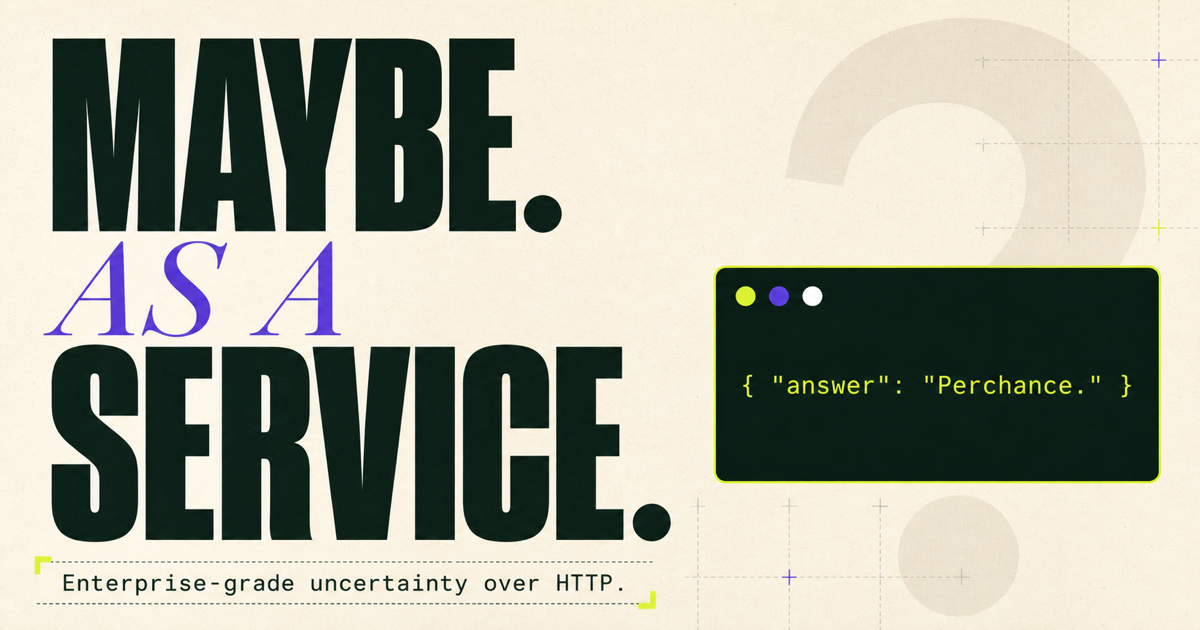
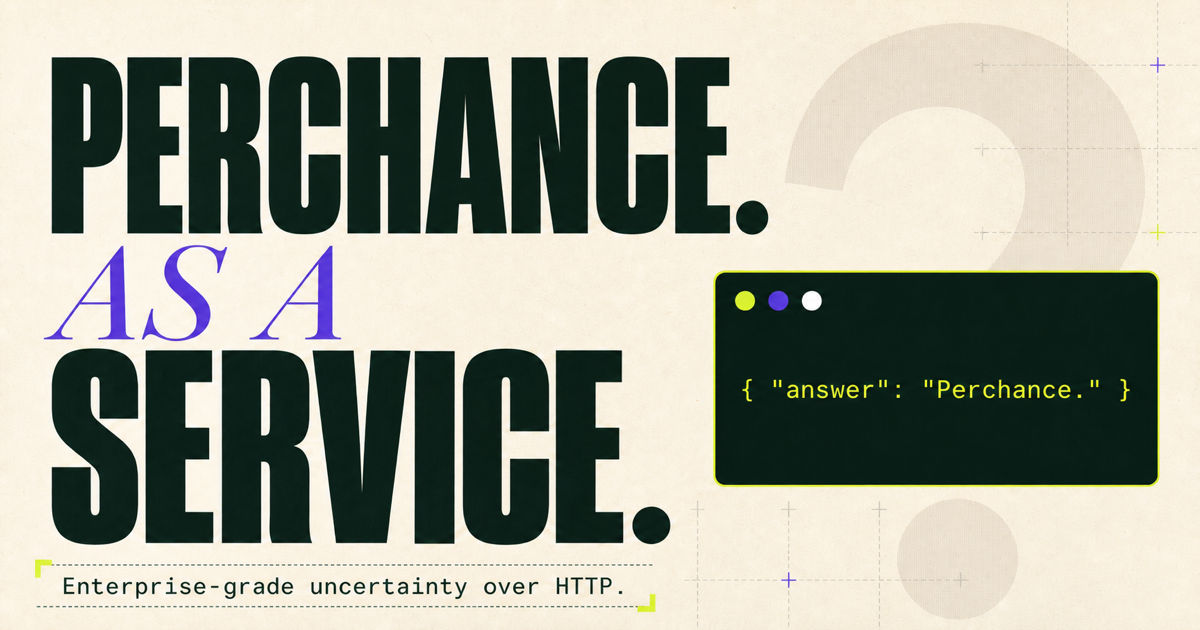
Add GitHub links and refresh site metadata

diff --git a/app/page.tsx b/app/page.tsx
@@ -16,6 +16,13 @@ export default function Home() {
         <div className="nav-links">
           <a href="#api">API</a>
           <a href="#principles">Principles</a>
+          <a
+            href="https://github.com/synopsys0/perchance-as-a-service"
+            target="_blank"
+            rel="noreferrer"
+          >
+            View on GitHub ↗
+          </a>
           <span className="status"><i /> Probably operational</span>
         </div>
       </nav>
@@ -93,7 +100,11 @@ export default function Home() {
 
       <footer>
         <div className="brand footer-brand"><span className="brand-mark">P</span><span>Perchance as a Service</span></div>
-        <p>Not affiliated with Perchance.org.<br />Inspired by No-as-a-Service.</p>
+        <div className="footer-links">
+          <a href="https://github.com/synopsys0/perchance-as-a-service" target="_blank" rel="noreferrer">View on GitHub ↗</a>
+          <a href="https://github.com/synopsys0/perchance-as-a-service" target="_blank" rel="noreferrer">Star the repo ↗</a>
+          <p>Not affiliated with Perchance.org.<br />Inspired by No-as-a-Service.</p>
+        </div>
         <p className="footer-note">Built with conviction.<br />Deployed with uncertainty.</p>
       </footer>
     </main>

diff --git a/app/layout.tsx b/app/layout.tsx
@@ -3,6 +3,8 @@ import { Geist, Geist_Mono } from "next/font/google";
 import { headers } from "next/headers";
 import "./globals.css";
 
+const siteDescription = "A tiny open-source API that returns a random “maybe” over HTTP.";
+
 const geistSans = Geist({
   variable: "--font-geist-sans",
   subsets: ["latin"],
@@ -22,18 +24,18 @@ export async function generateMetadata(): Promise<Metadata> {
   return {
     metadataBase,
     title: "Perchance as a Service",
-    description: "Enterprise-grade uncertainty over HTTP.",
+    description: siteDescription,
     applicationName: "Perchance as a Service",
     openGraph: {
       title: "Perchance as a Service",
-      description: "Enterprise-grade uncertainty over HTTP.",
+      description: siteDescription,
       type: "website",
-      images: [{ url: "/og.png", width: 1200, height: 630, alt: "Maybe. As a Service." }],
+      images: [{ url: "/og.png", width: 1200, height: 630, alt: "Perchance. As a Service." }],
     },
     twitter: {
       card: "summary_large_image",
       title: "Perchance as a Service",
-      description: "Enterprise-grade uncertainty over HTTP.",
+      description: siteDescription,
       images: ["/og.png"],
     },
   };

diff --git a/app/globals.css b/app/globals.css
@@ -588,6 +588,26 @@ footer {
   text-transform: none;
 }
 
+.footer-links {
+  display: flex;
+  flex-direction: column;
+  align-items: flex-start;
+  gap: 8px;
+}
+
+.footer-links a {
+  color: var(--acid);
+}
+
+.footer-links a:hover {
+  text-decoration: underline;
+  text-underline-offset: 4px;
+}
+
+.footer-links p {
+  margin: 8px 0 0;
+}
+
 .footer-note {
   text-align: right;
 }
